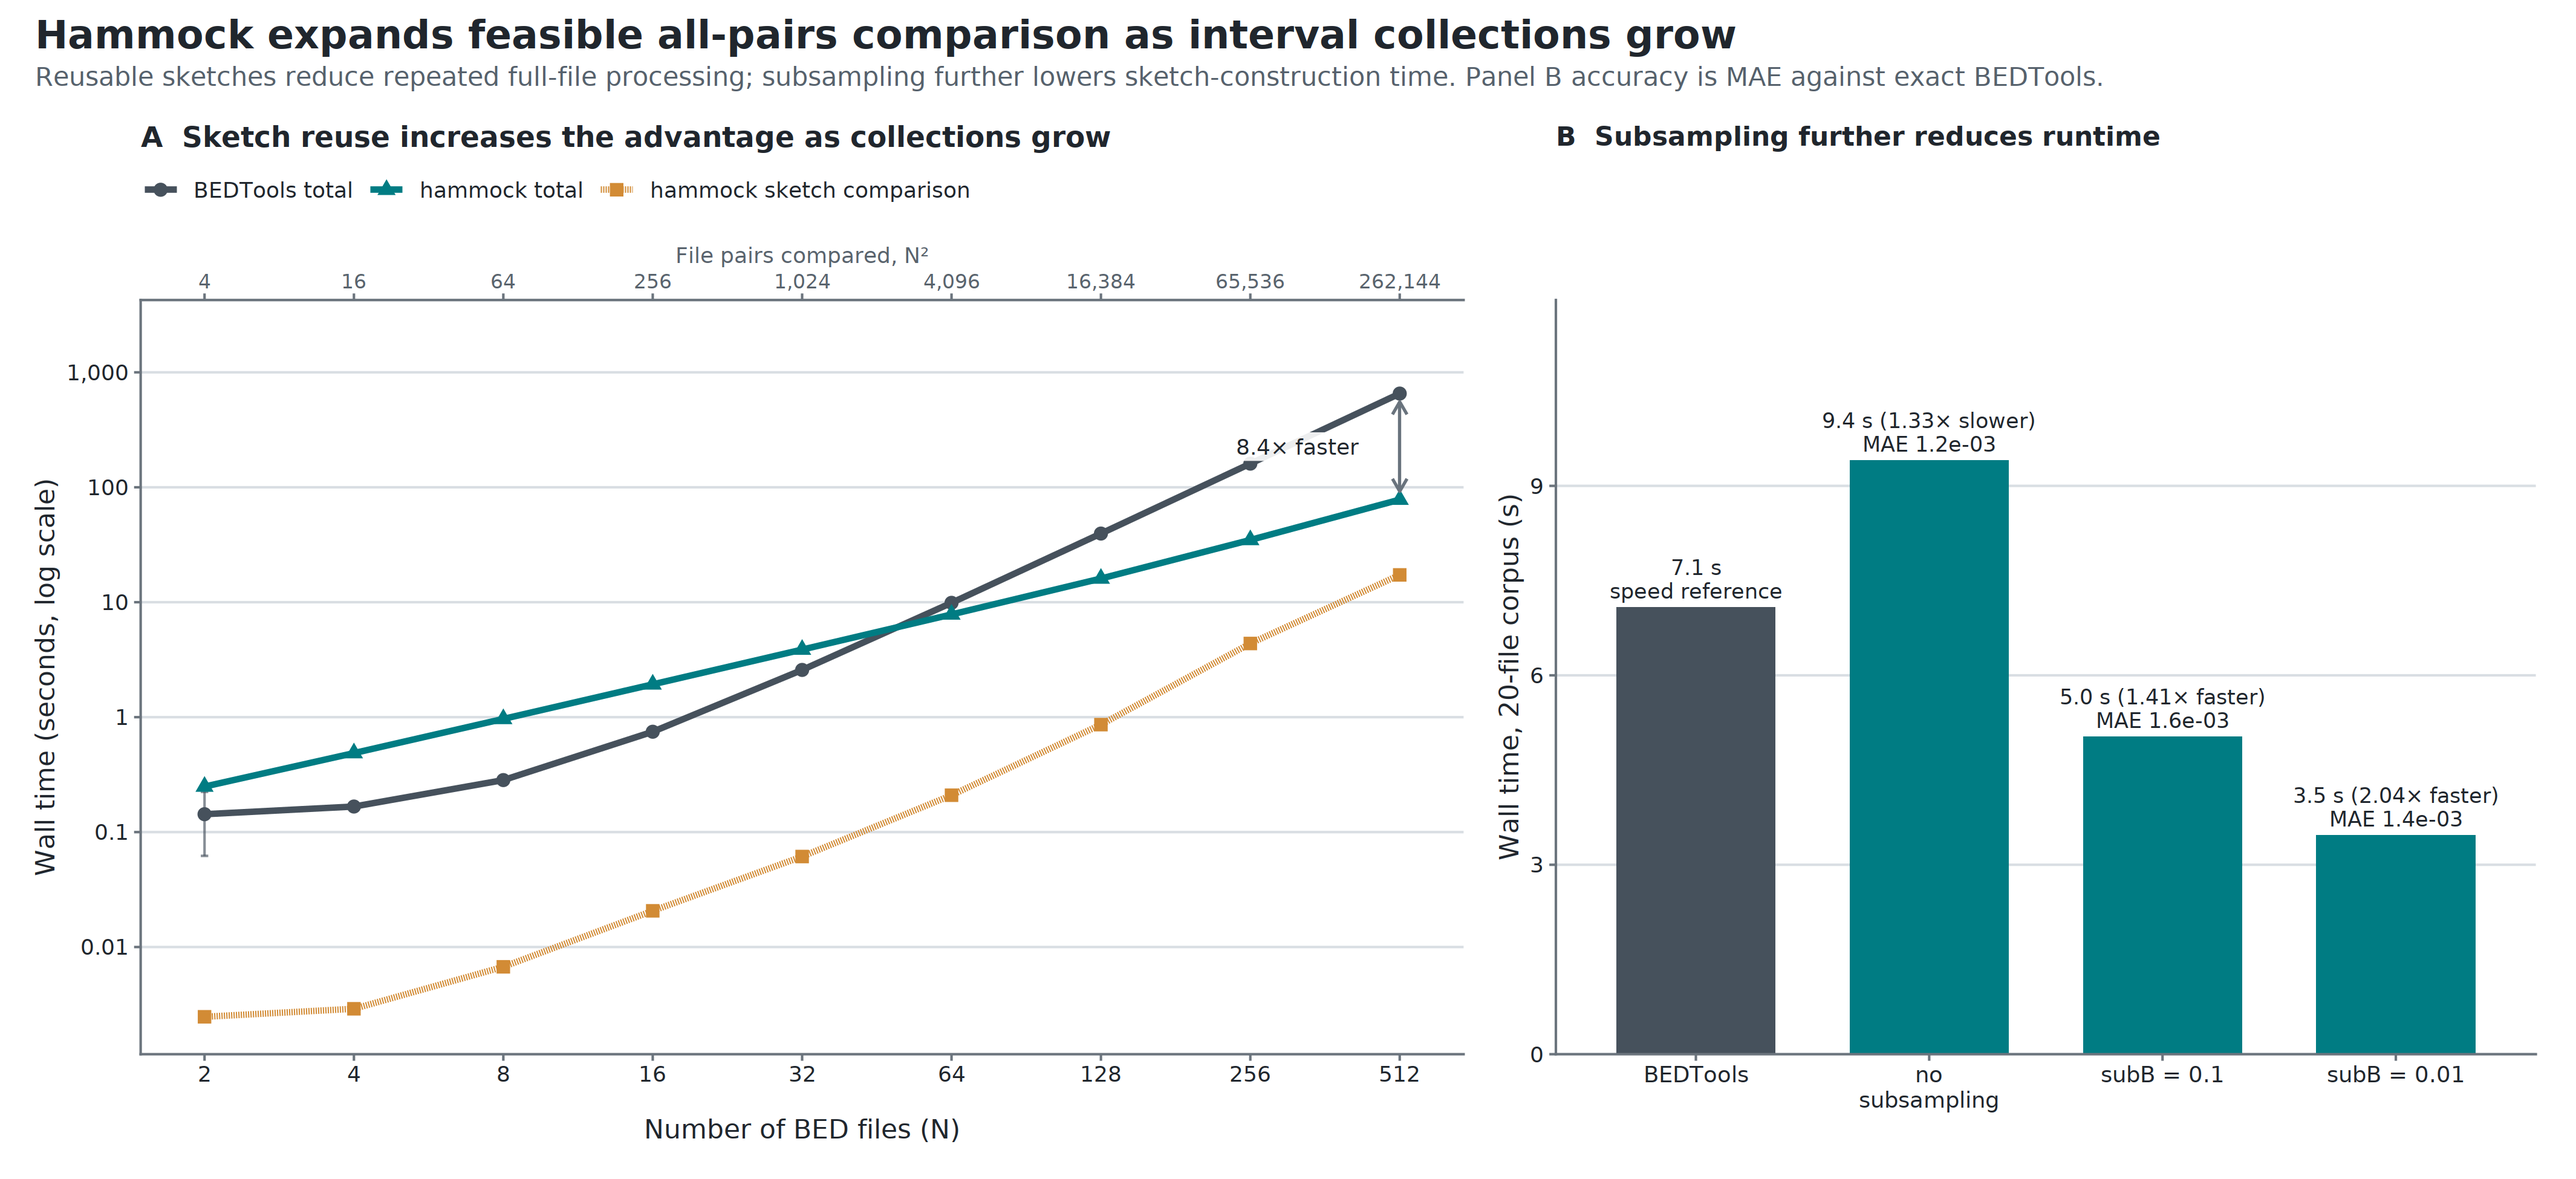
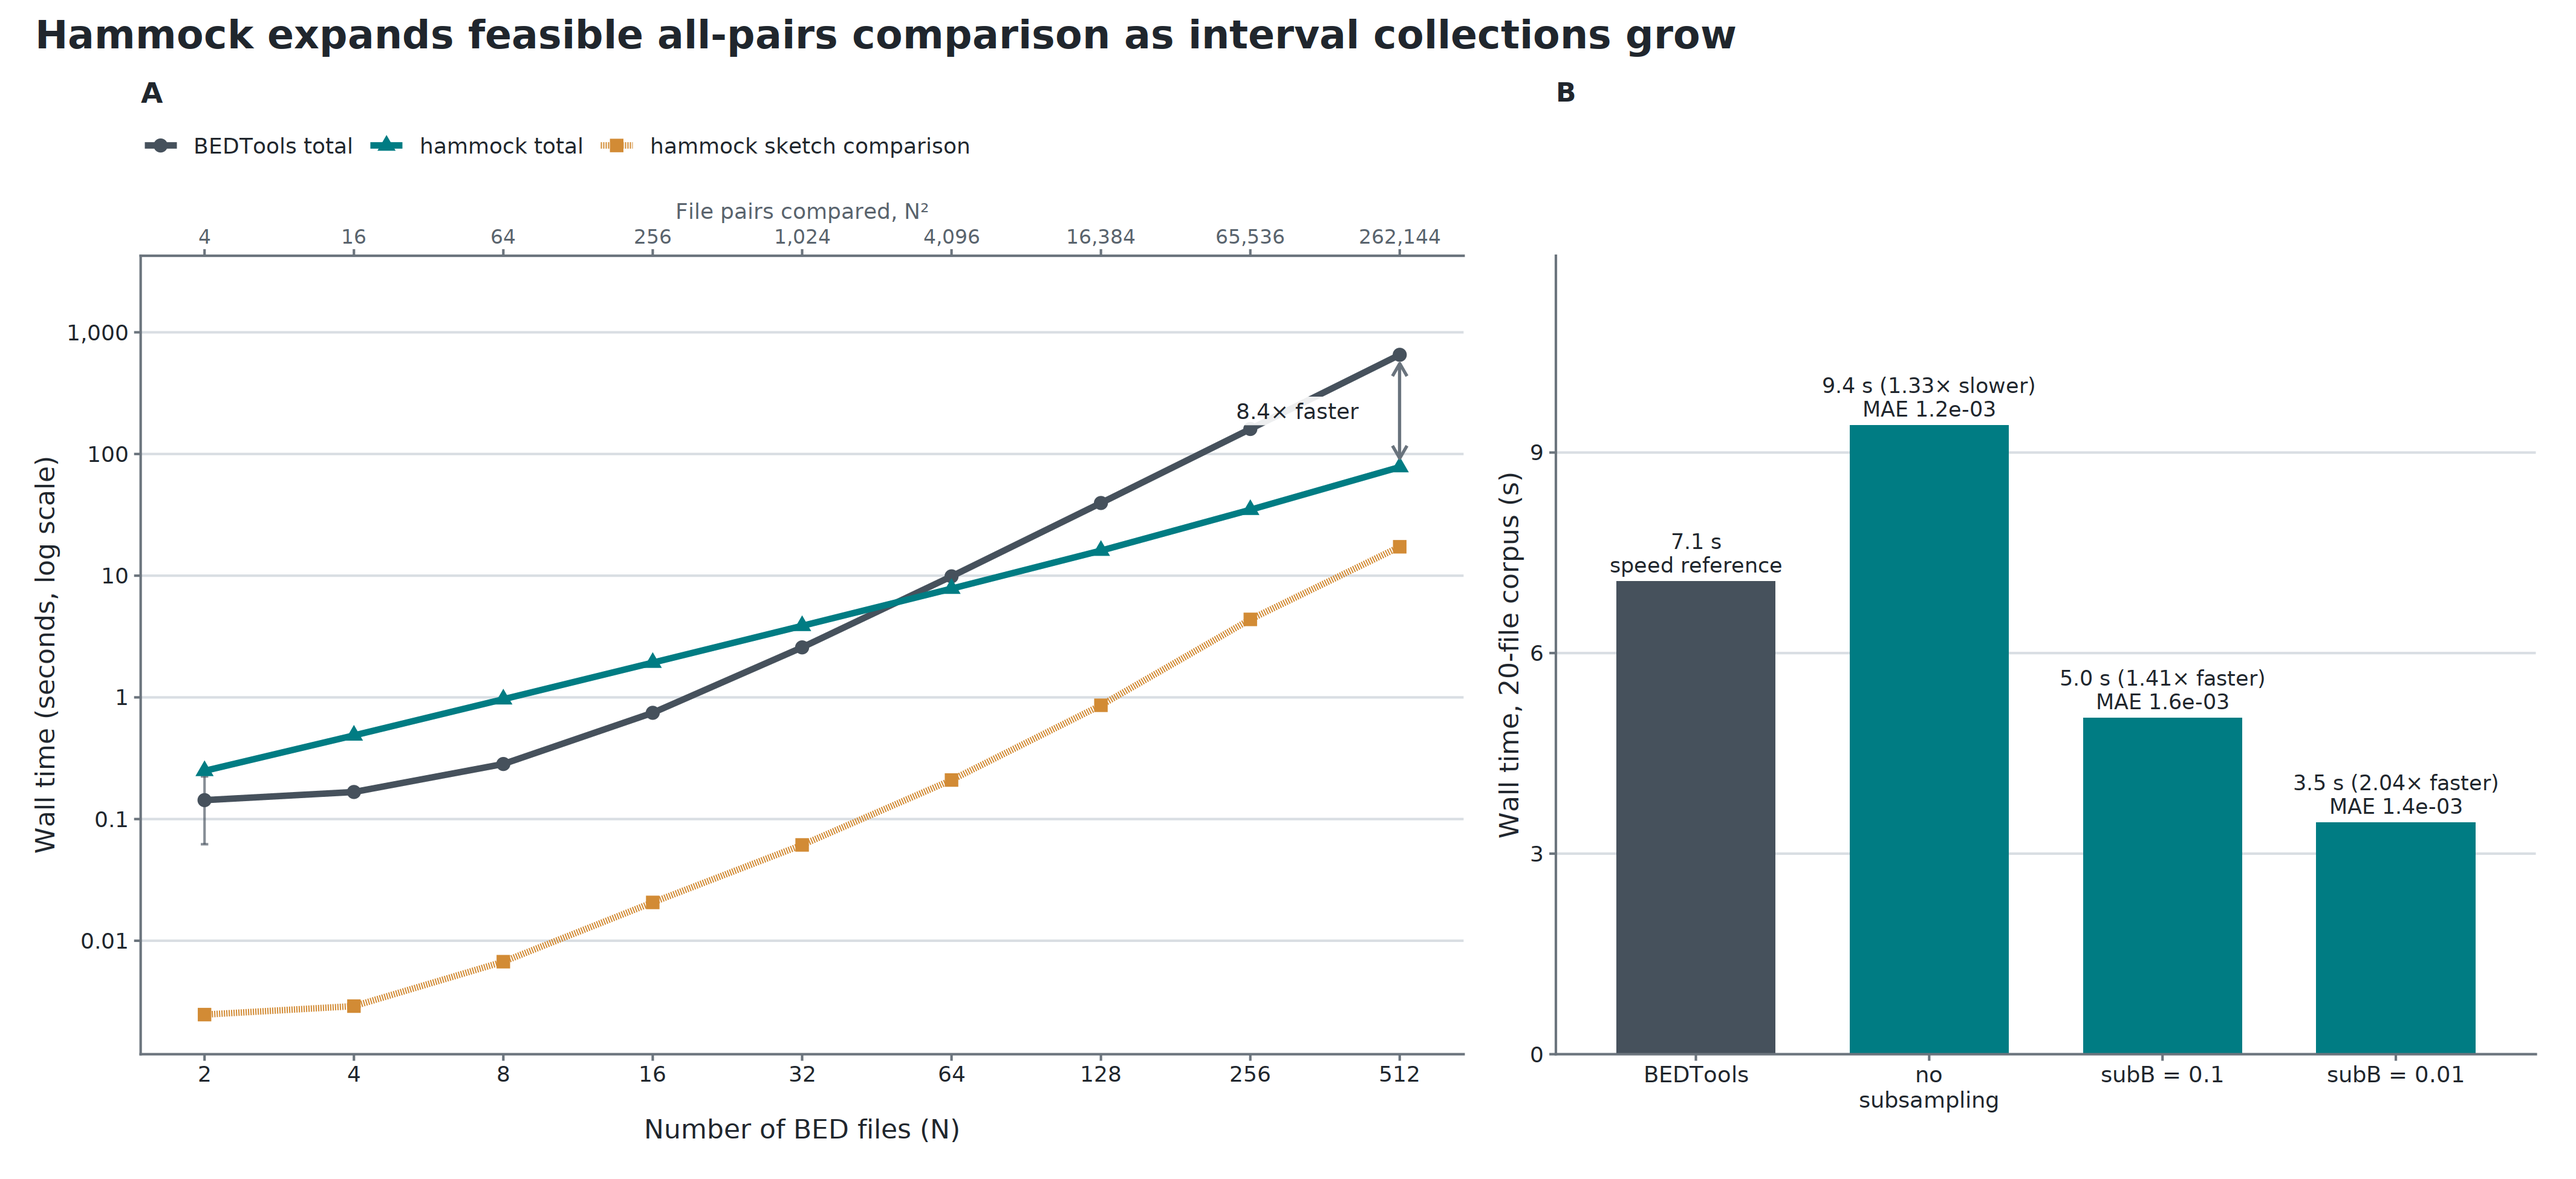
Move Figure 3 panel descriptions to caption

diff --git a/paper/outline.md b/paper/outline.md
@@ -51,7 +51,7 @@ This section should distinguish three sources of the interval-mode speedup:
 
 ![Figure 3](figures/pairwise_scaling.png)
 
-**Figure 3. Hammock expands feasible all-pairs comparison as interval collections grow.** (A) Wall time for hammock and BEDTools across synthetic collections containing 10,000 intervals per BED file, using HyperLogLog precision p=18 (the hammock CLI default), 16 threads, and three runs per configuration (twenty at N ≤ 32 — see generation note); N files per side gives N^{2} ordered pairs, 262,144 at N=512. Timings are of the standalone \texttt{hammock-cpp} binary, which the wheel installs but does not place on \texttt{PATH}. "BEDTools at 16 threads" is 16 concurrent single-threaded \texttt{bedtools jaccard} processes under GNU \texttt{parallel}, since \texttt{bedtools jaccard} has no batch or threaded mode; each BEDTools row records the parallelism it actually achieved, which on this corpus is 1.6 of 16 cores (Supplementary Fig S6). Curves show total hammock wall time on `jaccard_similarity_ie` — **the column we recommend reading for any comparison of magnitude**, and the only one this figure now reports — plus its sketch-comparison-phase component in isolation ("hammock sketch comparison"). BEDTools is faster than hammock below N≈64 (e.g. 0.29× at N=8) because hammock pays a roughly fixed per-invocation cost regardless of collection size while BEDTools' pairwise work is still cheap at this scale; the two total-wall curves cross between N=32 and N=64 as sketch reuse begins to dominate. At N=512, hammock is 8.4× faster than BEDTools. (B) Wall time on 20 Maurano fetal-tissue DNase hypersensitivity BED files using interval mode with p=18 and eight threads, at the `jaccard_similarity_ie` arm (the full metrics block, costlier than a legacy register-equality-similarity-only run — see Fig S9). Bars compare BEDTools with hammock at `subB=1.0`, `0.1`, and `0.01`; labels report wall time, speedup relative to BEDTools, and MAE of `jaccard_similarity_ie` relative to exact BEDTools truth over the 190 unique off-diagonal pairs (self-comparisons excluded).
+**Figure 3. Hammock expands feasible all-pairs comparison as interval collections grow.** (A) **Sketch reuse increases the advantage as collections grow.** Wall time for hammock and BEDTools across synthetic collections containing 10,000 intervals per BED file, using HyperLogLog precision p=18 (the hammock CLI default), 16 threads, and three runs per configuration (twenty at N ≤ 32 — see generation note); N files per side gives N^{2} ordered pairs, 262,144 at N=512. Timings are of the standalone \texttt{hammock-cpp} binary, which the wheel installs but does not place on \texttt{PATH}. "BEDTools at 16 threads" is 16 concurrent single-threaded \texttt{bedtools jaccard} processes under GNU \texttt{parallel}, since \texttt{bedtools jaccard} has no batch or threaded mode; each BEDTools row records the parallelism it actually achieved, which on this corpus is 1.6 of 16 cores (Supplementary Fig S6). Curves show total hammock wall time on `jaccard_similarity_ie` — **the column we recommend reading for any comparison of magnitude**, and the only one this figure now reports — plus its sketch-comparison-phase component in isolation ("hammock sketch comparison"). BEDTools is faster than hammock below N≈64 (e.g. 0.29× at N=8) because hammock pays a roughly fixed per-invocation cost regardless of collection size while BEDTools' pairwise work is still cheap at this scale; the two total-wall curves cross between N=32 and N=64 as sketch reuse begins to dominate. At N=512, hammock is 8.4× faster than BEDTools. (B) **Subsampling further reduces runtime.** Wall time on 20 Maurano fetal-tissue DNase hypersensitivity BED files using interval mode with p=18 and eight threads, at the `jaccard_similarity_ie` arm (the full metrics block, costlier than a legacy register-equality-similarity-only run — see Fig S9). Bars compare BEDTools with hammock at `subB=1.0`, `0.1`, and `0.01`; labels report wall time, speedup relative to BEDTools, and MAE of `jaccard_similarity_ie` relative to exact BEDTools truth over the 190 unique off-diagonal pairs (self-comparisons excluded).
 
 Together, the synthetic and real-data benchmarks show that hammock improves the feasibility of exhaustive pairwise analysis through both reusable sketches and efficient optional subsampling during sketch construction.
 

diff --git a/paper/draft.md b/paper/draft.md
@@ -77,7 +77,7 @@ Both panels are measured on the corrected, rotated-arm benchmark harness (`docs/
 
 ![Figure 3](figures/pairwise_scaling.png)
 
-**Figure 3. Hammock expands feasible all-pairs comparison as interval collections grow.** (A) Wall time for hammock and BEDTools across synthetic collections containing 10,000 intervals per BED file, using HyperLogLog precision p=18 (the hammock CLI default — corrected from p=14, used nowhere else in the paper), 16 threads, and three (twenty at N ≤ 32) runs per configuration; N files per side gives N^{2} ordered pairs, 262,144 at N=512. Curves show total hammock wall time on `jaccard_similarity_ie` — **the column we recommend reading for any comparison of magnitude, and the only one this figure reports** — plus its sketch-comparison-phase component in isolation ("hammock sketch comparison"). BEDTools is faster than hammock below N≈64; the two total-wall curves (BEDTools and hammock) cross between N=32 and N=64. At N=512, hammock is 8.4× faster than BEDTools. (The register-equality (`reg_eq_similarity`) variant of this panel, plotted alongside `jaccard_similarity_ie` rather than in its place, is Supplementary Figure S9; there the equivalent N=512 numbers are 9.2×/8.4×.) (B) Wall time on 20 Maurano fetal-tissue DNase hypersensitivity BED files using interval mode with p=18 and eight threads, at the `jaccard_similarity_ie` arm (the full metrics block — costlier than a register-equality-only run, see Figure S9). Bars compare BEDTools with hammock at `subB=1.0`, `0.1`, and `0.01`; labels report wall time, speedup relative to BEDTools, and MAE of `jaccard_similarity_ie` relative to exact BEDTools Jaccard over the 190 unique off-diagonal pairs (self-comparisons excluded).
+**Figure 3. Hammock expands feasible all-pairs comparison as interval collections grow.** (A) **Sketch reuse increases the advantage as collections grow.** Wall time for hammock and BEDTools across synthetic collections containing 10,000 intervals per BED file, using HyperLogLog precision p=18 (the hammock CLI default — corrected from p=14, used nowhere else in the paper), 16 threads, and three (twenty at N ≤ 32) runs per configuration; N files per side gives N^{2} ordered pairs, 262,144 at N=512. Curves show total hammock wall time on `jaccard_similarity_ie` — **the column we recommend reading for any comparison of magnitude, and the only one this figure reports** — plus its sketch-comparison-phase component in isolation ("hammock sketch comparison"). BEDTools is faster than hammock below N≈64; the two total-wall curves (BEDTools and hammock) cross between N=32 and N=64. At N=512, hammock is 8.4× faster than BEDTools. (The register-equality (`reg_eq_similarity`) variant of this panel, plotted alongside `jaccard_similarity_ie` rather than in its place, is Supplementary Figure S9; there the equivalent N=512 numbers are 9.2×/8.4×.) (B) **Subsampling further reduces runtime.** Wall time on 20 Maurano fetal-tissue DNase hypersensitivity BED files using interval mode with p=18 and eight threads, at the `jaccard_similarity_ie` arm (the full metrics block — costlier than a register-equality-only run, see Figure S9). Bars compare BEDTools with hammock at `subB=1.0`, `0.1`, and `0.01`; labels report wall time, speedup relative to BEDTools, and MAE of `jaccard_similarity_ie` relative to exact BEDTools Jaccard over the 190 unique off-diagonal pairs (self-comparisons excluded).
 
 Together, the synthetic and real-data benchmarks show that hammock improves the feasibility of exhaustive pairwise analysis through both reusable sketches and efficient optional subsampling during sketch construction.
 
